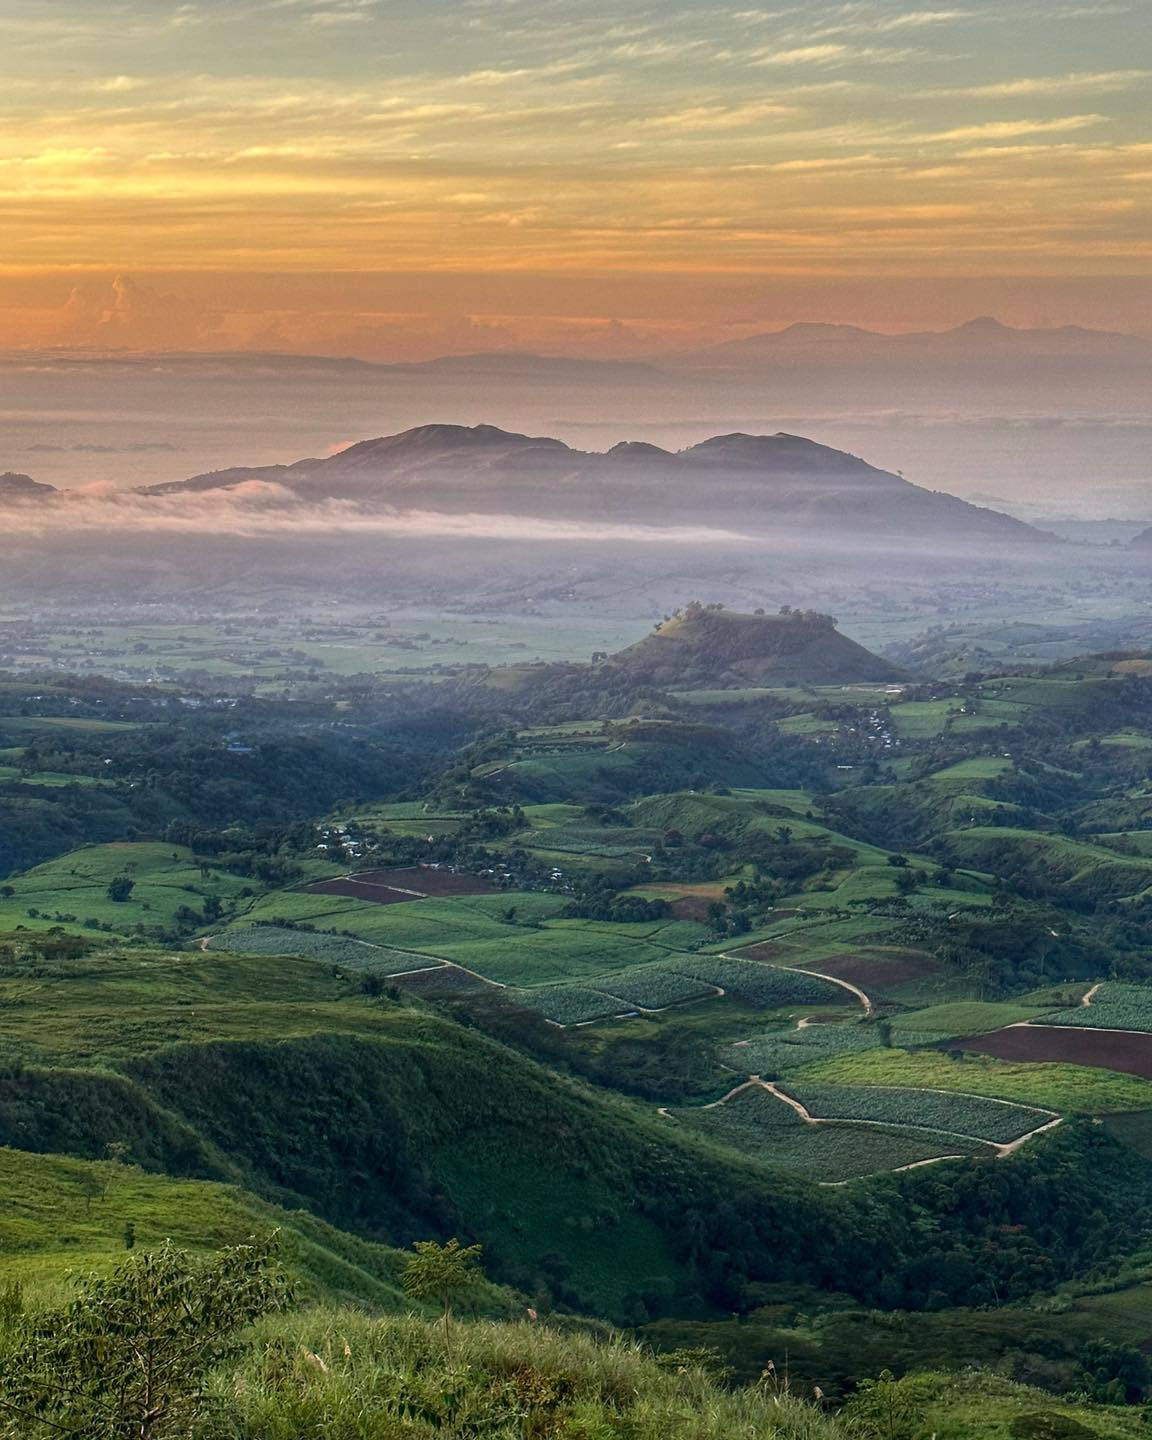
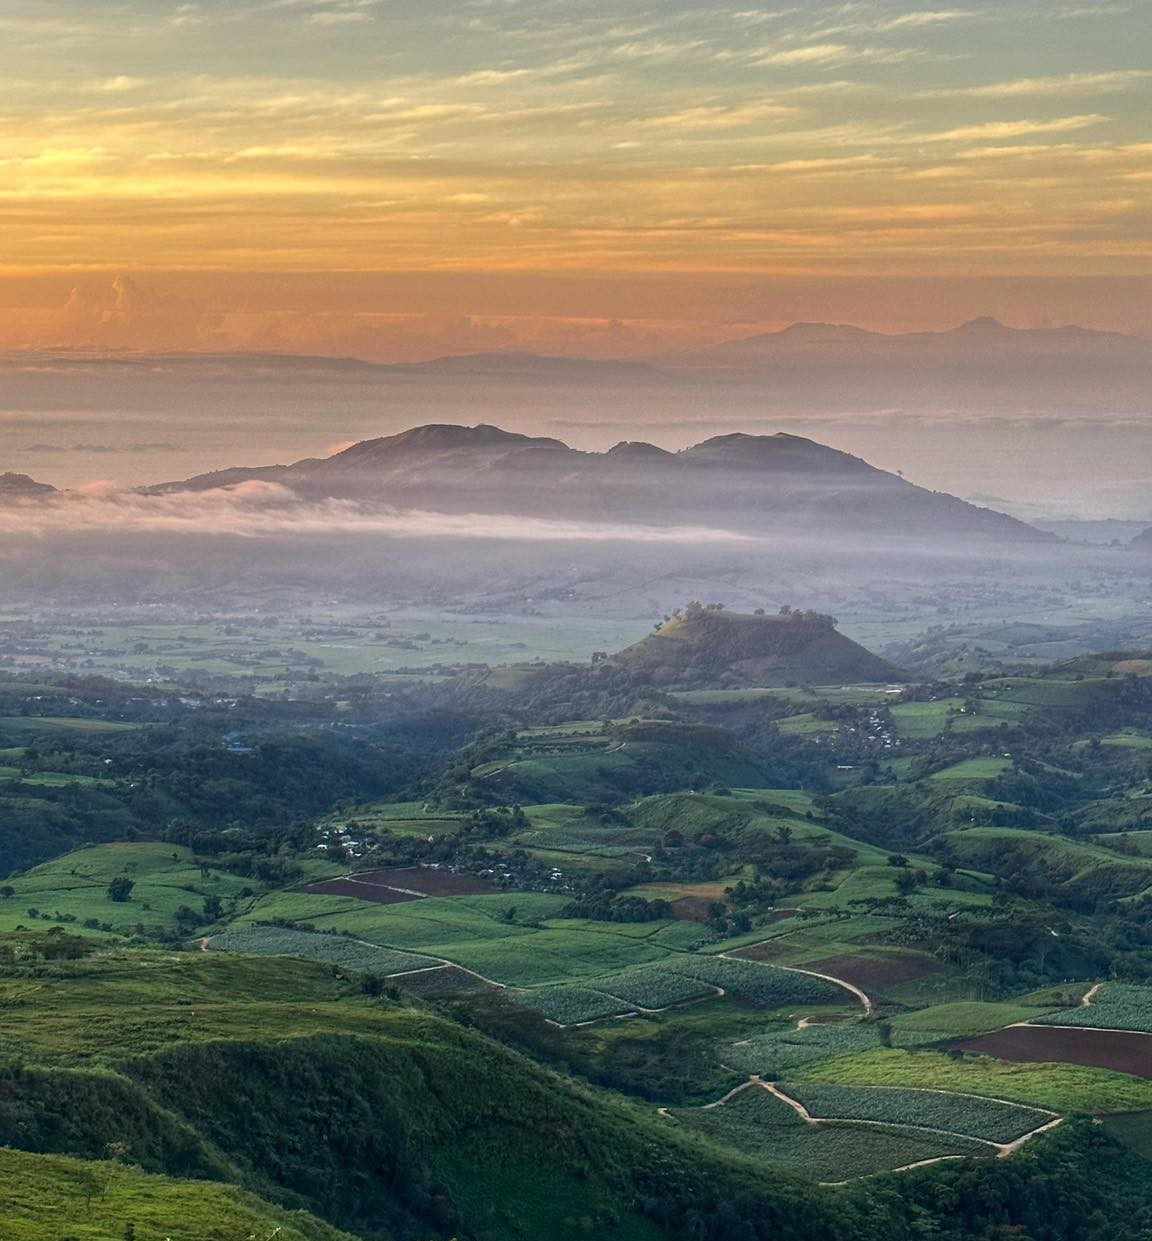
fixed homepage responsivness

diff --git a/app/page.module.css b/app/page.module.css
@@ -119,6 +119,12 @@
   grid-template-columns: 1fr;
   min-height: 80rem;
   position: relative;
+
+
+  background-image: url('/imgs/bukidnon.jpg');
+  background-size: contain;
+  background-position: left top;
+  background-repeat: no-repeat;
 }
 
 .sectionImageOnTheLeftContainer{
@@ -175,6 +181,7 @@
   flex-direction: column;
   justify-content: center;
   align-items: center;
+  background-color: white;
   /* background-color: rgba(137, 43, 226, 0.301); */
   /* border: 1px solid #f3f3f3; */
 }
@@ -227,7 +234,7 @@
 
 
 
-@media (min-width: 1024px) {
+@media (min-width: 1150px) {
 
   .hero{
     min-height: 43rem;
@@ -272,8 +279,13 @@
   .sectionImageOnTheLeft{
     display: grid;
     grid-template-columns: .75fr 1fr;
-    min-height: 50rem;
+    /* min-height: 50rem; */
     position: relative;
+
+
+    /* height: 25rem; */
+
+    
   }
   
   .sectionImageOnTheLeftContainer{

diff --git a/app/page.js b/app/page.js
@@ -93,12 +93,12 @@ export default function Home() {
 
         <section className={`${styles.section} ${styles.sectionImageOnTheLeft} width-full`}>
          
-          <div className={`${styles.sectionImageOnTheLeftContainer}`}>
+          {/* <div className={`${styles.sectionImageOnTheLeftContainer}`}>
               
           </div>
           <div>
              
-          </div>
+          </div> */}
 
           <div className={`${styles.sectionImageOnTheLeftcontentContainer} width`}>
             <div className={`${styles.sectionImageOnTheLeftContentContainerLeft} p-x-1-m`}>

diff --git a/app/news/page.module.css b/app/news/page.module.css
@@ -7,7 +7,7 @@
 
 
 
-@media (min-width: 1024px) {
+@media (min-width: 1150px) {
     .hero{
         background-image: url('/imgs/place.jpg');
         background-size: cover;

diff --git a/app/globals.css b/app/globals.css
@@ -411,7 +411,7 @@ ul{
 @media (min-width: 768px) {
   
 }
-@media (min-width: 1024px) {
+@media (min-width: 1150px) {
   :root {  
     --width: 72rem;
   }

diff --git a/app/components-global/footer.module.css b/app/components-global/footer.module.css
@@ -62,7 +62,7 @@
 
 
 
-@media (min-width: 1024px){
+@media (min-width: 1150px){
     
     .footertop{
         grid-template-columns: 30rem 1fr;

diff --git a/app/components-page/CardRight.module.css b/app/components-page/CardRight.module.css
@@ -87,7 +87,7 @@
   overflow: hidden;
 }
 
-  @media (min-width: 1024px) {
+  @media (min-width: 1150px) {
 
   
     .contentLinkscardPreview h5{

diff --git a/app/components-global/nav.module.css b/app/components-global/nav.module.css
@@ -108,7 +108,7 @@
 
 
 
-@media (min-width: 1024px) {
+@media (min-width: 1150px) {
   
   
   /* .navLogo a span{
